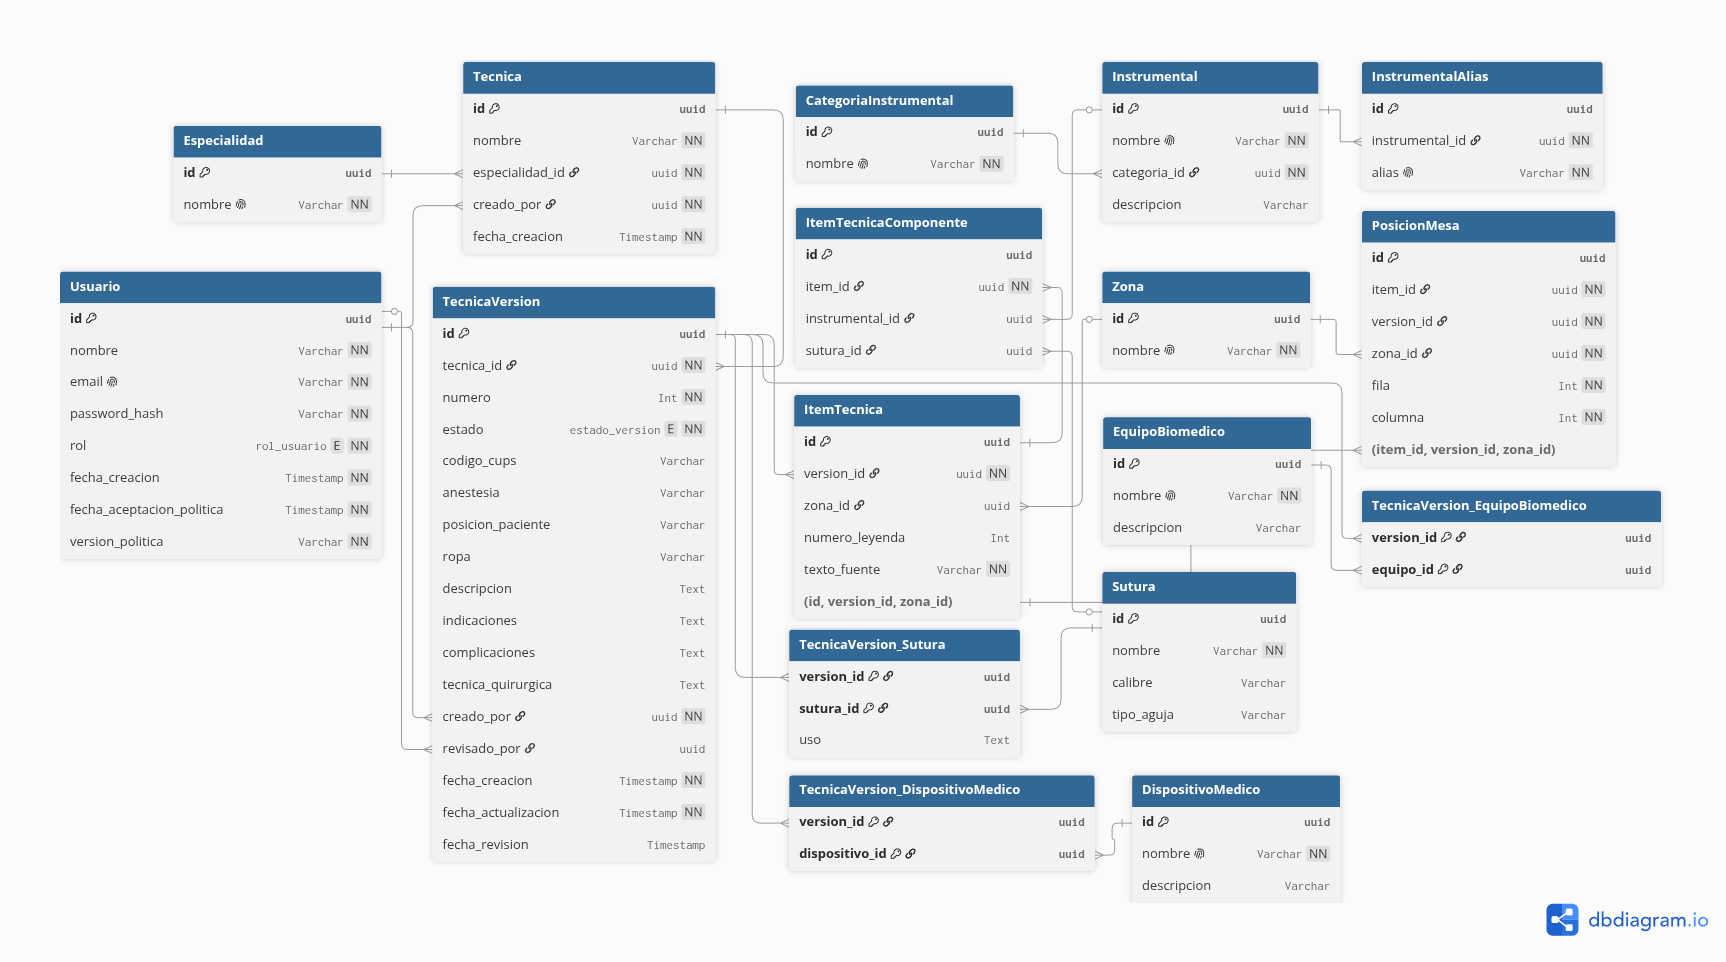
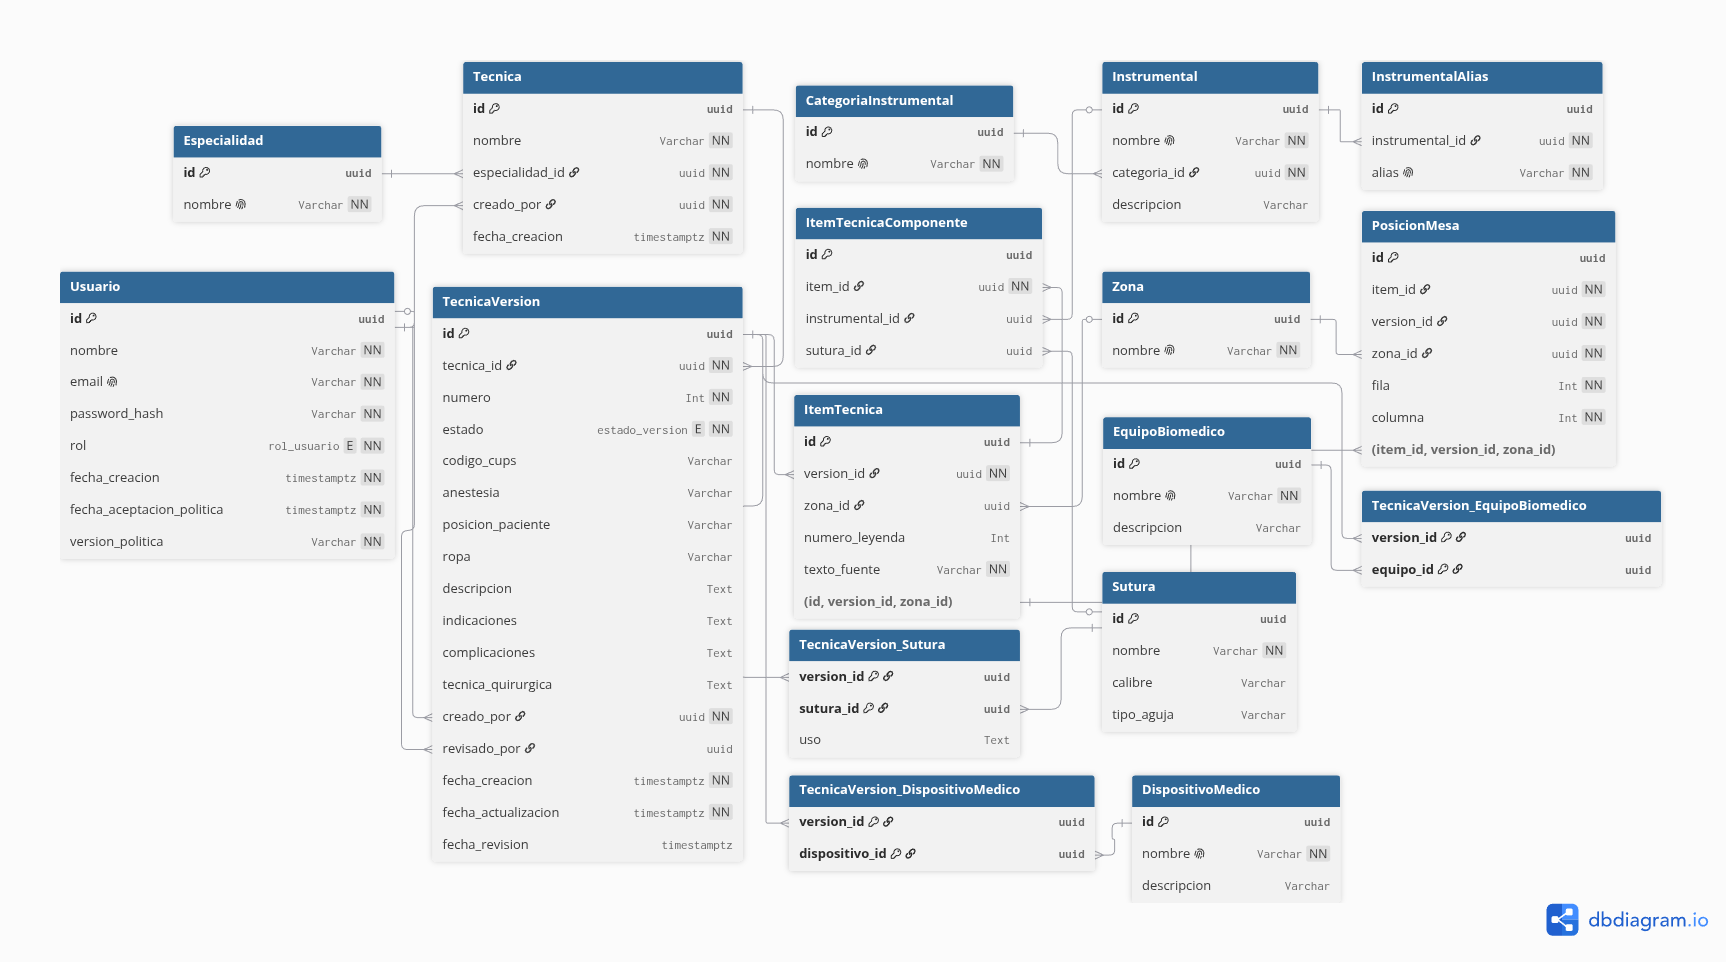
docs(dataiq): usar timestamptz en las fechas
Fechas con zona horaria y now() por defecto en fecha_creacion y fecha_actualizacion.

diff --git a/CLAUDE.md b/CLAUDE.md
@@ -120,6 +120,9 @@ navegación (ver más abajo) NO se considera un módulo.
     base tiene la misma identidad en todas, y los mapeos que guardan SIVRI
     (clases YOLO) y SIMIQ3D (modelos 3D) contra `Instrumental.id` sirven en
     cualquier instancia. Costo aceptado: un UUIDv7 revela su fecha de creación.
+  - **Fechas: `timestamptz`** (instante exacto, se guarda en UTC). El
+    servidor, la BD y los usuarios están en zonas horarias distintas.
+    `fecha_creacion` y `fecha_actualizacion` tienen `now()` por defecto.
   - **Solo importa la posición, no la cantidad** (definido por IQ). No existe
     campo `cantidad`.
   - **Versionado**: `Tecnica` es solo la identidad (nombre + especialidad).
